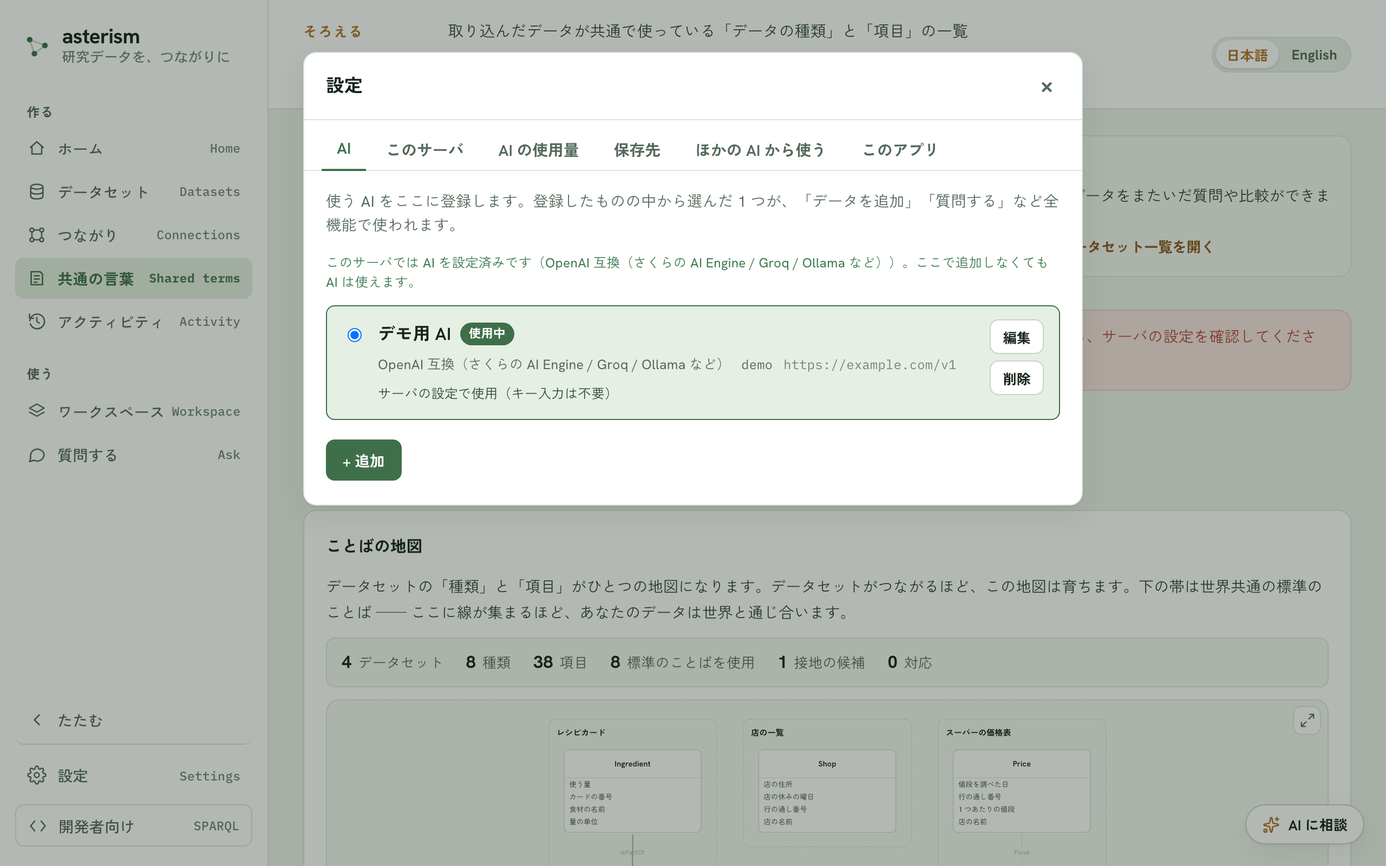
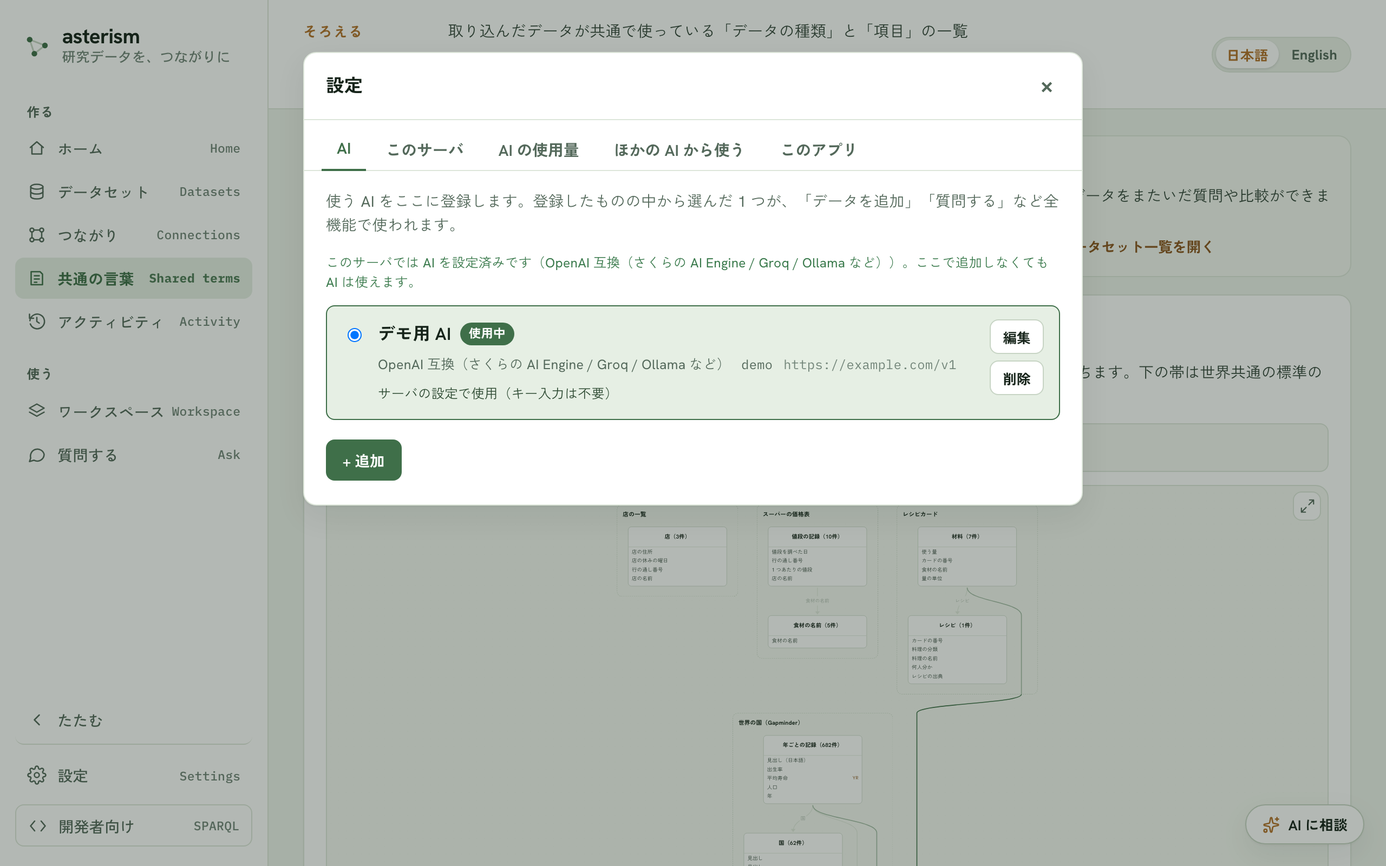
feat(ui): 設定の「保存先」と「PDF」を「このアプリ」タブにまとめる — タブは 7 → 5
利用者の指摘: 「PDF」というタブが「AI」「このサーバ」と同じ段に並ぶのは
釣り合わない。図の 3 案から「このパソコンに入っているアプリに関わるものを
『このアプリ』に集める」を選んだ。

- 「このアプリ」タブ = アプリ情報・アップデート・ローカル保存先・PDF の読み取り。
  保存先と PDF の節は、出る条件（デスクトップ版だけ）も中身も変えていない
- 置く欄の「設定を開く」は「このアプリ」タブを開き、PDF の節まで送る
- StorageTab → StorageSection、PdfRuntimeTab → PdfRuntimeSection
- manual/ja の設定の章を同じ構成に直し、タブ一覧の画像を撮り直した。
  ADR desktop-pdf-runtime.md D6・ROADMAP

diff --git a/docs/manual/ja/roadmap.html b/docs/manual/ja/roadmap.html
@@ -19,7 +19,7 @@
 <h2 id="2026-07-設計を-AI-に丸投げしない-決定論と人間の確認">2026-07 · 設計を AI に丸投げしない — 決定論と人間の確認</h2>
 <div class="tablewrap"><table><thead><tr><th>バージョン</th><th>日付</th><th>節目</th></tr></thead><tbody><tr><td><strong>v0.7.0</strong></td><td>2026-07-14</td><td>大きな節目。画面全体が新しいデザインに。使う AI を Anthropic・OpenAI・OpenAI 互換から選び、<a href="./settings.html#AI-の使用量-タブ">使った分の使用量</a>を見られるように（<a href="./settings.html#AI-タブ">使う AI の登録</a>）。装置が出力した .txt / .dat を<a href="./add-data.html#対応しているファイル形式">そのまま置ける</a>ように。変換ルールを AI が書くのをやめ、人が読める<a href="./dataset-files.html#仕様-mapping-yaml">仕様</a>から機械が組み立てる方式へ。設計の骨格を早い段階で人が確かめるゲート、<a href="./dataset-files.html#過去の版">取り込みルールの人間可読化と見直しの履歴</a>、引用 ID をブラウザで開くと公開データが返る仕組み、取り込みの中断と<a href="./datasets.html#取り込みの記録">記録</a>もこのリリースです。</td></tr><tr><td><strong>v0.8.0</strong></td><td>2026-07-22</td><td><strong><a href="./getting-started.html">かんたんモード</a></strong> の登場 — 人が答える問いを絞ったウィザードの骨組み（データを置く〜列の意味を確かめるまで。公開までつながるのは次の v0.9.0）。Excel（.xlsx）を<a href="./add-data.html#対応しているファイル形式">そのまま置ける</a>ように。列の意味と単位を確かめる<a href="./getting-started.html#3-意味をつける">意味をつける</a>画面と、検査で止まったときに AI に直してもらう導線もここから。</td></tr><tr><td><strong>v0.9.0</strong></td><td>2026-07-23</td><td>かんたんモードが<a href="./getting-started.html#6-ためす">ためす</a>・<a href="./getting-started.html#7-公開する">公開する</a>まで一続きに。公開したあとで<a href="./datasets.html#設計を見直す">設計を見直す</a>道と、検査で止まった理由を平易な文で出す翻訳。「中身」タブの構造図は、仕様から機械的に作られるようになりました。</td></tr><tr><td><strong>v0.10.0</strong></td><td>2026-07-23</td><td>装置ファイルの先頭にある <code>key=value</code> の条件行を、列として使えるように（<a href="./dataset-files.html#仕様-mapping-yaml">仕様の dialects</a>）。かたちを確かめる画面に骨格の図と<a href="./getting-started.html#5-かたちをたしかめる">「AI にもう一度考えさせる」ボタン</a>。ことばの名前のつけかたを機械が決めるようになり、人が接頭辞を考える必要が無くなりました。</td></tr><tr><td><strong>v0.11.0</strong></td><td>2026-07-24</td><td>設計の「弱さ」を欠陥と分けて、消えない場所に平易な日本語で出す<a href="./datasets.html#気になる点">気になる点</a>。つながりは AI 無しで候補を出し、<a href="./crosswalk.html#つなげそうな組み合わせをさがす">人は 1 つ選ぶだけ</a>に。同じ列を 2 か所に写していないかの検査。</td></tr></tbody></table></div>
 <h2 id="2026-08-前半-手元で動く-デスクトップ版と-質問のチャット化">2026-08 前半 · 手元で動く — デスクトップ版と、質問のチャット化</h2>
-<div class="tablewrap"><table><thead><tr><th>バージョン</th><th>日付</th><th>節目</th></tr></thead><tbody><tr><td><strong>v0.12.0</strong></td><td>2026-08-12</td><td>Docker 無しで、1 コマンドで起動するローカルモード。公開したデータセットの<a href="./dataset-files.html#検索タグ-mie-yaml">検索タグ</a>を外部のカタログ（togomcp）へ自動で載せられるように。</td></tr><tr><td><strong>v0.13.0</strong></td><td>2026-08-13</td><td><strong><a href="./desktop.html">デスクトップ版</a></strong> — macOS で、Python も Docker も無しにアプリを開くだけで使える自己完結の .app と、<a href="./desktop.html#自動更新">自動更新</a>。かたちを確かめる画面に、その設計で進むとどうなるか（件数・1 件に潰れる行・参照の危うさ）を先に見せる表示。</td></tr><tr><td><strong>v0.13.2</strong></td><td>2026-08-14</td><td>デスクトップ版が Apple の署名・公証つきに。設定画面が Graphium と同じ形になり、<a href="./settings.html#このアプリ-タブ">「このアプリ」タブ</a>でバージョンと更新を確かめられるように。再起動のたびに登録した AI が消える不具合もここで根治。</td></tr><tr><td><strong>v0.14.0</strong></td><td>2026-08-14</td><td>取り込んだ実データが設計どおりの形かを検査し、<a href="./datasets.html#気になる点">気になる点</a>に出すように。</td></tr><tr><td><strong>v0.14.4</strong></td><td>2026-08-15</td><td>数値の列を数値として記録するように。型のない数は文字として大小を比べてしまうので、最大・最小・順位が正しくなりました。</td></tr><tr><td><strong>v0.15.0</strong></td><td>2026-08-17</td><td><a href="./ask.html">質問する</a>がチャットに — 履歴の一覧・続けて聞く会話・入力欄（<a href="./ask.html#チャットの履歴">チャットの履歴</a>）。行ごとの種類が値を 1 つも持たない「空の入れ物」の検出。</td></tr><tr><td><strong>v0.16.0</strong></td><td>2026-08-17</td><td>置いたファイルがブラウザの再読み込みで消えなくなり、<a href="./add-data.html#前回の続き">前回の続き</a>から再開できるように。1 行に混ざった別々のものを<a href="./getting-started.html#5-かたちをたしかめる">別の種類に分ける</a>操作。質問の答えが、データの事実を毎回確かめ直し、文字のまま保存された数を比べているときは注意を出すように（<a href="./ask.html#数値の比べ方の注意">数値の比べ方の注意</a>）。</td></tr><tr><td><strong>v0.17.0</strong></td><td>2026-08-17</td><td>デスクトップ版の更新が、画面上部のお知らせから<a href="./desktop.html#自動更新">ワンクリック</a>に。</td></tr><tr><td><strong>v0.17.3</strong></td><td>2026-08-18</td><td>デスクトップ版は、チャットと設定をブラウザの中ではなく PC のディスクに保存するように。</td></tr><tr><td><strong>v0.17.4</strong></td><td>2026-08-20</td><td>16 の画面すべてを「かんたん」のことばに揃える一括修正。<a href="./settings.html#保存先-タブ">保存先</a>を変えるときに、今のデータを新しい場所へ移せるように。ことばを<a href="./vocab-and-grounding.html#標準のことばに合わせる-任意">標準に合わせる</a>入口がかんたんモードの公開画面にも付き、単位は標準（QUDT）の表記に照合されるように。検査で見つかった欠陥の停止は、人がクリックしなくても機械が押すように。</td></tr><tr><td><strong>v0.17.5</strong></td><td>2026-08-21</td><td><a href="./vocab-and-grounding.html#この列は何を測っているか">この列は何を測っているか</a>を標準に合わせられるように — 単位が手がかりになるので、項目名が略記でも見つかります。データセットの詳細画面のタブを「答える問い」で切り直し（<a href="./datasets.html#詳細画面のタブ">詳細画面のタブ</a>）。</td></tr></tbody></table></div>
+<div class="tablewrap"><table><thead><tr><th>バージョン</th><th>日付</th><th>節目</th></tr></thead><tbody><tr><td><strong>v0.12.0</strong></td><td>2026-08-12</td><td>Docker 無しで、1 コマンドで起動するローカルモード。公開したデータセットの<a href="./dataset-files.html#検索タグ-mie-yaml">検索タグ</a>を外部のカタログ（togomcp）へ自動で載せられるように。</td></tr><tr><td><strong>v0.13.0</strong></td><td>2026-08-13</td><td><strong><a href="./desktop.html">デスクトップ版</a></strong> — macOS で、Python も Docker も無しにアプリを開くだけで使える自己完結の .app と、<a href="./desktop.html#自動更新">自動更新</a>。かたちを確かめる画面に、その設計で進むとどうなるか（件数・1 件に潰れる行・参照の危うさ）を先に見せる表示。</td></tr><tr><td><strong>v0.13.2</strong></td><td>2026-08-14</td><td>デスクトップ版が Apple の署名・公証つきに。設定画面が Graphium と同じ形になり、<a href="./settings.html#このアプリ-タブ">「このアプリ」タブ</a>でバージョンと更新を確かめられるように。再起動のたびに登録した AI が消える不具合もここで根治。</td></tr><tr><td><strong>v0.14.0</strong></td><td>2026-08-14</td><td>取り込んだ実データが設計どおりの形かを検査し、<a href="./datasets.html#気になる点">気になる点</a>に出すように。</td></tr><tr><td><strong>v0.14.4</strong></td><td>2026-08-15</td><td>数値の列を数値として記録するように。型のない数は文字として大小を比べてしまうので、最大・最小・順位が正しくなりました。</td></tr><tr><td><strong>v0.15.0</strong></td><td>2026-08-17</td><td><a href="./ask.html">質問する</a>がチャットに — 履歴の一覧・続けて聞く会話・入力欄（<a href="./ask.html#チャットの履歴">チャットの履歴</a>）。行ごとの種類が値を 1 つも持たない「空の入れ物」の検出。</td></tr><tr><td><strong>v0.16.0</strong></td><td>2026-08-17</td><td>置いたファイルがブラウザの再読み込みで消えなくなり、<a href="./add-data.html#前回の続き">前回の続き</a>から再開できるように。1 行に混ざった別々のものを<a href="./getting-started.html#5-かたちをたしかめる">別の種類に分ける</a>操作。質問の答えが、データの事実を毎回確かめ直し、文字のまま保存された数を比べているときは注意を出すように（<a href="./ask.html#数値の比べ方の注意">数値の比べ方の注意</a>）。</td></tr><tr><td><strong>v0.17.0</strong></td><td>2026-08-17</td><td>デスクトップ版の更新が、画面上部のお知らせから<a href="./desktop.html#自動更新">ワンクリック</a>に。</td></tr><tr><td><strong>v0.17.3</strong></td><td>2026-08-18</td><td>デスクトップ版は、チャットと設定をブラウザの中ではなく PC のディスクに保存するように。</td></tr><tr><td><strong>v0.17.4</strong></td><td>2026-08-20</td><td>16 の画面すべてを「かんたん」のことばに揃える一括修正。<a href="./settings.html#保存先">保存先</a>を変えるときに、今のデータを新しい場所へ移せるように。ことばを<a href="./vocab-and-grounding.html#標準のことばに合わせる-任意">標準に合わせる</a>入口がかんたんモードの公開画面にも付き、単位は標準（QUDT）の表記に照合されるように。検査で見つかった欠陥の停止は、人がクリックしなくても機械が押すように。</td></tr><tr><td><strong>v0.17.5</strong></td><td>2026-08-21</td><td><a href="./vocab-and-grounding.html#この列は何を測っているか">この列は何を測っているか</a>を標準に合わせられるように — 単位が手がかりになるので、項目名が略記でも見つかります。データセットの詳細画面のタブを「答える問い」で切り直し（<a href="./datasets.html#詳細画面のタブ">詳細画面のタブ</a>）。</td></tr></tbody></table></div>
 <h2 id="2026-08-後半-意味を先に-ID-を後に-かんたんモードの作り直し">2026-08 後半 · 意味を先に、ID を後に — かんたんモードの作り直し</h2>
 <div class="tablewrap"><table><thead><tr><th>バージョン</th><th>日付</th><th>節目</th></tr></thead><tbody><tr><td><strong>v0.18.0</strong></td><td>2026-08-25</td><td>「項目の意味」は AI に再試行させるものではなく、人が決めるものに。危険な ID（測定した値をそのまま ID にしていて、1 件に潰れうるもの）は、人に見せる前に機械が置き換えるように。</td></tr><tr><td><strong>v0.19.0</strong></td><td>2026-08-25</td><td><a href="./getting-started.html#3-意味をつける">意味をつける</a>画面で、まだ取り込んでいない項目をまとめて操作できるように。</td></tr><tr><td><strong>v0.20.0</strong></td><td>2026-08-25</td><td><strong><a href="./consult.html">相談チャット</a></strong> — 設計中の疑問を、画面を離れずに右側のチャットで聞けるように。</td></tr><tr><td><strong>v0.21.0</strong></td><td>2026-08-25</td><td>相談チャットに、<a href="./consult.html#いま見ている画面のことは-伝えなくても伝わる">いま画面に見えている列が自動で伝わる</a>ように。AI が出した意味・単位の候補は、空欄にだけ<a href="./consult.html#AI-の候補を表に反映する">表に反映</a>できます。</td></tr><tr><td><strong>v0.22.0</strong></td><td>2026-08-26</td><td>ユーザーマニュアルを 9 章に拡充し、実画面の写真を入れました。設定の「このアプリ」からも更新を入れられるように（<a href="./desktop.html#手動で確認">手動で確認</a>）。</td></tr><tr><td><strong>v0.22.2</strong></td><td>2026-08-27</td><td>公開したあとで「データの数えかた」（ID のつけかた）を直せるように — 前の ID は引っ越し先を指すので、すでに配った引用から新しい内容にたどれます（引き継げない ID があるときは、公開の前に知らせます。<a href="./datasets.html#設計を見直す">設計を見直す</a>）。右下のボタンが「AI に相談」に。デスクトップ版で裏方が止まったら気づかせて、その場で再起動できるように。ほかの AI が「どのデータセットがあるか」を聞ける道具（find_datasets）。</td></tr><tr><td><strong>v0.23.0</strong></td><td>2026-08-28</td><td><strong><a href="./settings.html#ほかの-AI-から使う-タブ">ほかの AI から使う</a></strong> — Asterism 本体が MCP の接続先を出し、Claude Code・Claude Desktop・Cursor などに貼り付ける内容を設定から配れるように。</td></tr><tr><td><strong>v0.23.1</strong></td><td>2026-08-28</td><td><strong>意味を先に、ID を後に</strong> — かんたんモードの順序を入れ替え、<a href="./getting-started.html#3-意味をつける">意味をつける</a>を先にしました。重複する列は「どちらに残しますか」とその場で人に聞き、「AI にもう一度考えさせる」は作り直しではなく修理になって、画面で直した内容が消えなくなりました。文の強弱（判断・操作・補足・警告）を整理。マニュアルを <a href="./index.html">GitHub Pages で公開</a>し、<a href="./rdf-basics.html">つながったデータの基礎</a>と<a href="./dataset-files.html">データセットの中のファイル</a>の 2 章を追加。</td></tr><tr><td><strong>v0.25.0</strong></td><td>2026-08-29</td><td>かたちを確かめる画面に「できあがった形」を表示。AI の名づけを標準の綴りに寄せるように。マニュアルに実画面のスクリーンショット。</td></tr><tr><td><strong>v0.26.0</strong></td><td>2026-08-29</td><td>形の図が、<a href="./getting-started.html#5-かたちをたしかめる">動かして眺められる図</a>に。図はすべて同じ描き方に揃えました。</td></tr></tbody></table></div>
 <h2 id="2026-08-末-09-骨格は簡単な判断から-と図-育つ地図">2026-08 末〜09 · 骨格は簡単な判断から — ☑ と図、育つ地図</h2>

diff --git a/docs/manual/ja/settings.html b/docs/manual/ja/settings.html
@@ -24,18 +24,18 @@
 <h2 id="AI-の使用量-タブ">「AI の使用量」タブ <span class="badge">v0.7.0 (2026-07-14) で追加</span></h2>
 <p>各 AI 呼び出しで使ったトークン数の集計と、概算コストを確認できます。日・月・年の粒度で切り替えられ、機能（質問する・設計の提案など）× モデルの内訳も見られます。トークン単価を設定していないモデルの使用分は、概算コストには含まれません。</p>
 <figure><a href="../screenshots/settings-usage.png" title="原寸で開く"><img src="../screenshots/settings-usage.png" alt="AI の使用量タブ"></a></figure>
-<h2 id="保存先-タブ">「保存先」タブ <span class="badge">v0.17.4 (2026-08-20) で追加</span></h2>
-<p>データセット・グラフ・チャット・設定を保存するフォルダを確認・変更できます（変更はデスクトップアプリのみ）。「変更…」ボタンから別の場所を選べます。選んだ場所が同期フォルダ（Dropbox など）だと、複数端末から同時に開いたときに壊れることがあるため推奨されません。確認の画面で「今のデータを新しい場所へ移す」にチェックを付けると、次の起動時にデータが移り、結果が画面に表示されます（移行先のフォルダが空のときだけ移します）。チェックを付けない場合、既存のデータは自動では移動されないので、引き継ぎたいときはアプリを終了してから旧フォルダの中身を新しいフォルダへ手動でコピーします。別の場所を選んだあとは、「既定の場所に戻す」ボタンでいつでも元の保存先に戻せます。</p>
 <h2 id="ほかの-AI-から使う-タブ">「ほかの AI から使う」タブ <span class="badge">v0.23.0 (2026-08-28) で追加</span></h2>
 <p>Asterism に取り込んだデータを、Claude Code・Claude Desktop・Cursor・VS Codeなどの AI から直接聞けるようにするタブです。データをコピーして渡すのではなく、AI に<strong>接続先</strong>（<code>http://127.0.0.1:8765/mcp</code> のようなアドレス）を教えるだけで、その AI が Asterism に問い合わせて答えます。</p>
 <p>使っている AI を選ぶと、その AI に必要な手順と、貼り付ける内容が出ます。「コピー」ボタンで写して、AI 側に貼り付けてください。接続先は起動のたびにこの画面で確認します（別のプログラムが同じ番号を使っていると、Asterism は別の番号で起動するため）。</p>
 <p>Asterism を起動している間だけ使えます。アプリを終了すると、AI からは繋がらなくなります。</p>
-<h2 id="PDF-タブ">「PDF」タブ</h2>
-<p>デスクトップ版だけにあるタブです。PDF を取り込むには、PDF を読み取る部品（約 1.7GB）をこのパソコンに入れます。入れるのは 1 回だけです。</p>
-<ul><li>「部品を入れる」ボタンを押すと、ダウンロードが始まります。インターネットへの接続が要り、数分かかります。進み具合はこのタブに出て、設定の画面を閉じても続きます。途中でやめるときは「中止」ボタンを押します</li><li>入れ終わると「PDF を取り込めます」と出て、ファイルを置く欄が PDF を受け付けるようになります（画面を読み込み直す必要はありません）</li><li>PDF の読み取りはこのパソコンの中で行い、読み取りのために PDF を外へ送ることはありません。部品がインターネットを使うのは、入れるときだけです</li><li>要らなくなったら「部品を消す」ボタンで消せます（取り込み済みのデータは残ります）</li></ul>
-<p>うまく入らなかったときや、入れた部品が動かなくなったときは、理由と「もう一度試す」ボタンが出ます。それでも動かないときは、同じ場所の「部品を消す」ボタンで消してから入れ直せます。</p>
 <h2 id="このアプリ-タブ">「このアプリ」タブ <span class="badge">v0.13.2 (2026-08-14) で追加</span></h2>
-<p>インストールされているバージョンの確認と、更新の確認ができます。詳しくは<a href="./desktop.html">desktop.md</a> を参照してください。</p>
+<p>このパソコンに入っているアプリそのものについての設定を、1 つにまとめたタブです。インストールされているバージョンの確認と、更新の確認ができます（詳しくは <a href="./desktop.html">desktop.md</a>）。デスクトップ版では、同じタブの下に「ローカル保存先」と「PDF の読み取り」も並びます。</p>
+<h3 id="保存先">保存先 <span class="badge">v0.17.4 (2026-08-20) で追加</span></h3>
+<p>データセット・グラフ・チャット・設定を保存するフォルダを確認・変更できます（変更はデスクトップアプリのみ）。「変更…」ボタンから別の場所を選べます。選んだ場所が同期フォルダ（Dropbox など）だと、複数端末から同時に開いたときに壊れることがあるため推奨されません。確認の画面で「今のデータを新しい場所へ移す」にチェックを付けると、次の起動時にデータが移り、結果が画面に表示されます（移行先のフォルダが空のときだけ移します）。チェックを付けない場合、既存のデータは自動では移動されないので、引き継ぎたいときはアプリを終了してから旧フォルダの中身を新しいフォルダへ手動でコピーします。別の場所を選んだあとは、「既定の場所に戻す」ボタンでいつでも元の保存先に戻せます。</p>
+<h3 id="PDF-の読み取り">PDF の読み取り</h3>
+<p>デスクトップ版だけにあります。PDF を取り込むには、PDF を読み取る部品（約 1.7GB）をこのパソコンに入れます。入れるのは 1 回だけです。</p>
+<ul><li>「部品を入れる」ボタンを押すと、ダウンロードが始まります。インターネットへの接続が要り、数分かかります。進み具合はこの欄に出て、設定の画面を閉じても続きます。途中でやめるときは「中止」ボタンを押します</li><li>入れ終わると「PDF を取り込めます」と出て、ファイルを置く欄が PDF を受け付けるようになります（画面を読み込み直す必要はありません）</li><li>PDF の読み取りはこのパソコンの中で行い、読み取りのために PDF を外へ送ることはありません。部品がインターネットを使うのは、入れるときだけです</li><li>要らなくなったら「部品を消す」ボタンで消せます（取り込み済みのデータは残ります）</li></ul>
+<p>うまく入らなかったときや、入れた部品が動かなくなったときは、理由と「もう一度試す」ボタンが出ます。それでも動かないときは、同じ場所の「部品を消す」ボタンで消してから入れ直せます。</p>
 <h2 id="関連">関連</h2>
 <p>設計について AI に相談したいときは <a href="./consult.html">consult.md</a>、公開したデータへの質問は <a href="./ask.html">ask.md</a> を参照してください。</p>
 <footer>この文書は <a href="https://github.com/kumagallium/asterism">kumagallium/asterism</a>

diff --git a/ui/src/settings/SettingsModal.tsx b/ui/src/settings/SettingsModal.tsx
@@ -5,9 +5,6 @@ import { getAppDataInfo } from '../appdata'
 import { AboutTab } from './AboutTab'
 import { ConnectTab } from './ConnectTab'
 import { InstanceSection } from './InstanceSection'
-import { PdfRuntimeTab } from './PdfRuntimeTab'
-import { usePdfRuntime } from '../pdfRuntime'
-import { StorageTab } from './StorageTab'
 import { WriteTokenSection } from './WriteTokenSection'
 import { type SettingsSection, useLlmSettings } from './context'
 import { UsageTab } from './UsageTab'
@@ -36,8 +33,8 @@ import {
 // from, the shared AI setup), usage, where things are saved, and the app itself.
 // Most of those used to live under "Models", so guidance like "enter it in
 // settings" landed on a page whose tab names said nothing about the field being
-// described. 'storage' only exists on a single-user server (see below).
-type Tab = 'ai' | 'server' | 'usage' | 'storage' | 'connect' | 'pdf' | 'about'
+// described. 保存先・PDF の読み取りは「このアプリ」タブの中の節（条件つき）。
+type Tab = 'ai' | 'server' | 'usage' | 'connect' | 'about'
 
 /** DOM id of the block a section name scrolls to. */
 const SECTION_ANCHOR: Record<SettingsSection, string> = {
@@ -53,7 +50,7 @@ const SECTION_TAB: Record<SettingsSection, Tab> = {
   'server-token': 'server',
   'server-instance': 'server',
   usage: 'usage',
-  pdf: 'pdf',
+  pdf: 'about',
 }
 
 export function SettingsModal({
@@ -70,10 +67,7 @@ export function SettingsModal({
   const [tab, setTab] = useState<Tab>('ai')
 
   // 共有ブラウザ版（複数ユーザーが同じ api を見ている）ではストレージタブ自体を出さない。
-  const showStorageTab = getAppDataInfo()?.singleUser === true
   const showConnectTab = getAppDataInfo()?.mcpUrl != null
-  // PDF の読み取り部品は、入れ外しできる環境（デスクトップ版）でだけ出す。
-  const { manageable: showPdfTab } = usePdfRuntime()
 
   // Land on the section the user was sent to. Chosen during render (rather than
   // after paint) so the modal never flashes the wrong tab, and remembered so a
@@ -162,11 +156,8 @@ export function SettingsModal({
               'ai',
               'server',
               'usage',
-              // 共有ブラウザ版では保存先を出さない（サーバの申告で決める）。
-              ...(showStorageTab ? (['storage'] as const) : []),
               // 接続先はこの機が MCP を出しているときだけ（--no-mcp・共有 api では出ない）。
               ...(showConnectTab ? (['connect'] as const) : []),
-              ...(showPdfTab ? (['pdf'] as const) : []),
               'about',
             ] as Tab[]
           ).map((id) => (
@@ -188,9 +179,7 @@ export function SettingsModal({
               <UsageTab />
             </div>
           )}
-          {tab === 'storage' && showStorageTab && <StorageTab />}
           {tab === 'connect' && showConnectTab && <ConnectTab />}
-          {tab === 'pdf' && showPdfTab && <PdfRuntimeTab />}
           {tab === 'about' && <AboutTab />}
         </div>
       </div>

diff --git a/docs/manual/ja/add-data.html b/docs/manual/ja/add-data.html
@@ -39,7 +39,7 @@
 <ul><li><strong>ととのえて進む</strong> — 選んだ内容で表を作ってから、次の画面（AI が読み取る意味づけ）に進みます。</li><li><strong>このまま進む</strong> — 表の形はととのえず、元の表のまま次に進みます。あとからやり直したいときは、「入れる」からもう一度やり直してください。</li></ul>
 <h2 id="Word-PDF-などの文書">Word / PDF などの文書 <span class="badge">v0.6.0 (2026-06-16) で追加</span></h2>
 <p>論文の XML（JATS）・Word・PDF の文書は、AI を使わずそのまま取り込めます。文書名を付けて取り込み、読み取りが終わったら公開すると、文ごとに検索・引用できるようになります。PDF はレイアウトも読むため、数分かかることがあります。文字が画像になっているスキャン画像の PDF は読み取れません。</p>
-<p>デスクトップ版では、論文の XML（JATS）と Word はそのまま取り込めます（Word を読み取る部品はアプリに同梱しています）。PDF は、PDF を読み取る部品（約 1.7GB）を1 回入れると取り込めるようになります。入れ方は<a href="./settings.html#PDF-タブ">settings.md</a> を参照してください。PDF の読み取りはパソコンの中で行い、読み取りのために PDF を外へ送ることはありません。</p>
+<p>デスクトップ版では、論文の XML（JATS）と Word はそのまま取り込めます（Word を読み取る部品はアプリに同梱しています）。PDF は、PDF を読み取る部品（約 1.7GB）を1 回入れると取り込めるようになります。入れ方は<a href="./settings.html#PDF-の読み取り">settings.md</a> を参照してください。PDF の読み取りはパソコンの中で行い、読み取りのために PDF を外へ送ることはありません。</p>
 <p>画面は、いま取り込める形式だけを案内します。取り込めない形式があるときは、次のようになります。</p>
 <ul><li>ファイルを置く欄の下に「PDF は、読み取る部品を入れると取り込めます。」と出て、「設定を開く」ボタンから部品を入れる画面に進めます</li><li>ファイルを選ぶ画面では、その形式のファイルは選ぶ対象から外れます</li><li>それでも選んだり、ドラッグして置いたりしたときは、取り込みを始める前にその場で知らせます</li></ul>
 <p>サーバ版では、PDF を読み取る部品が設定されていないサーバのとき、PDF だけが取り込めません（「PDF は、このサーバでは取り込めません」と出ます）。古い版のデスクトップ版では、Word・PDF とも取り込めないことがあります。アプリを更新してください。</p>

diff --git a/docs/manual/ja/desktop.html b/docs/manual/ja/desktop.html
@@ -22,9 +22,9 @@
 <p>左下の「設定」を開き「このアプリ」タブの「今すぐ確認」ボタンで、いつでも手動で確認できます。最新の状態であれば「お使いの Asterism は最新です。」と表示されます。新しいバージョンが見つかったときは、画面上部のお知らせを待たなくても、同じタブの中に「新しいバージョン ○.○.○ があります」と表示されます。「再起動して更新」ボタンを押し、確認に答えると、その場で更新できます。</p>
 <h2 id="ブラウザ版との違い">ブラウザ版との違い</h2>
 <p>更新確認はデスクトップアプリのみの機能です。ブラウザ版はサーバが配信している内容がそのまま最新なので、更新確認そのものが必要ありません。</p>
-<p>文書の取り込みは、デスクトップ版では論文の XML（JATS）と Word がそのまま使えます。PDF は、PDF を読み取る部品（約 1.7GB）を 1 回入れると使えるようになります。設定の「PDF」タブから入れます（<a href="./settings.html#PDF-タブ">settings.md</a>）。PDF の読み取りはパソコンの中で行い、読み取りのために PDF を外へ送ることはありません。</p>
+<p>文書の取り込みは、デスクトップ版では論文の XML（JATS）と Word がそのまま使えます。PDF は、PDF を読み取る部品（約 1.7GB）を 1 回入れると使えるようになります。設定の「このアプリ」タブにある「PDF の読み取り」から入れます（<a href="./settings.html#PDF-の読み取り">settings.md</a>）。PDF の読み取りはパソコンの中で行い、読み取りのために PDF を外へ送ることはありません。</p>
 <h2 id="保存先の変更">保存先の変更 <span class="badge">v0.17.4 (2026-08-20) で追加</span></h2>
-<p>データセット・グラフ・チャット・設定の保存先は、設定の「保存先」タブから変更できます（デスクトップ版のみ）。詳しくは <a href="./settings.html">settings.md</a>を参照してください。</p>
+<p>データセット・グラフ・チャット・設定の保存先は、設定の「このアプリ」タブにある「ローカル保存先」から変更できます（デスクトップ版のみ）。詳しくは<a href="./settings.html#保存先">settings.md</a> を参照してください。</p>
 <h2 id="関連">関連</h2>
 <p>設定全般については <a href="./settings.html">settings.md</a> を参照してください。</p>
 <footer>この文書は <a href="https://github.com/kumagallium/asterism">kumagallium/asterism</a>

diff --git a/docs/manual/ja/screens.html b/docs/manual/ja/screens.html
@@ -34,7 +34,7 @@
 <h2 id="このサーバへの書き込みに必要な利用許可コードを設定する">このサーバへの書き込みに必要な利用許可コードを設定する</h2>
 <p>左下の「設定」を開き「このサーバ」タブの「利用許可コード」欄に、このサーバの利用許可コードを貼り付けます。データの取り込み・公開などの書き込み操作に必要です。</p>
 <h2 id="AI-の使用量-保存先-アプリの更新を確認する">AI の使用量・保存先・アプリの更新を確認する</h2>
-<p>左下の「設定」の「AI の使用量」タブで使ったトークンと概算コストを、「保存先」タブでデータの保存フォルダ（デスクトップ版のみ変更可）を、「このアプリ」タブでバージョンと更新の確認（「今すぐ確認」ボタン）ができます。自動更新の詳細は <a href="./desktop.html">desktop.md</a>。</p>
+<p>左下の「設定」の「AI の使用量」タブで使ったトークンと概算コストを、「このアプリ」タブでバージョンと更新の確認（「今すぐ確認」ボタン）ができます。デスクトップ版では、同じ「このアプリ」タブでデータの保存フォルダの変更と、PDF を読み取る部品の出し入れもできます。自動更新の詳細は <a href="./desktop.html">desktop.md</a>。</p>
 <h2 id="公開済みデータに質問する">公開済みデータに質問する</h2>
 <p>メニューの「質問する」から、公開済みのデータに自然な言葉で質問できます。答えに付く出どころのたどり方は <a href="./ask.html">ask.md</a>。この設計相談チャットとは別物で、データを公開したあとに使えます。</p>
 <h2 id="公開済みデータセットの一覧を見る">公開済みデータセットの一覧を見る</h2>

diff --git a/ui/src/settings/PdfRuntimeSection.tsx b/ui/src/settings/PdfRuntimeSection.tsx
@@ -2,11 +2,11 @@ import { useState } from 'react'
 import { useTranslation } from 'react-i18next'
 import { progressPercent, sizeGb, usePdfRuntime } from '../pdfRuntime'
 
-// 「PDF」タブ — デスクトップ版で、PDF を読み取る部品をあとから入れる／消す。
+// 「このアプリ」タブの「PDF の読み取り」の節 — デスクトップ版で、PDF を読み取る部品をあとから入れる／消す。
 // 状態は pdfRuntime.ts の共有ストアから来る（入れている最中は 1.5 秒おきに更新）。
 // 画面を閉じても入れる処理は続く（バックエンド側で動いている）。
 
-export function PdfRuntimeTab() {
+export function PdfRuntimeSection() {
   const { t } = useTranslation('settings')
   const { status, install, remove } = usePdfRuntime()
   const [busy, setBusy] = useState(false)
@@ -32,8 +32,7 @@ export function PdfRuntimeTab() {
   const pct = progressPercent(status)
 
   return (
-    <div className="pdf-tab" id="settings-pdf">
-      <section className="serverkeys storage-section">
+    <section className="serverkeys" id="settings-pdf">
         <h4 className="serverkeys-title">{t('pdf.title')}</h4>
 
         {status.state === 'absent' && (
@@ -150,7 +149,6 @@ export function PdfRuntimeTab() {
             {t('pdf.requestFailed')}
           </p>
         )}
-      </section>
-    </div>
+    </section>
   )
 }

diff --git a/ui/src/settings/AboutTab.tsx b/ui/src/settings/AboutTab.tsx
@@ -9,6 +9,10 @@ import {
   type UpdateAvailableDetail,
 } from '../desktop/updater'
 import { useUpdateInstall } from '../desktop/useUpdateInstall'
+import { getAppDataInfo } from '../appdata'
+import { usePdfRuntime } from '../pdfRuntime'
+import { PdfRuntimeSection } from './PdfRuntimeSection'
+import { StorageSection } from './StorageSection'
 import { type InstanceInfo, fetchInstanceInfo } from './instanceApi'
 
 // 他のクライアントと同じ API ベース（既定は同一オリジン /api・別ホスト配備は VITE_API_URL）
@@ -84,6 +88,9 @@ export function AboutTab() {
   }, [clearError])
 
   const tauri = isTauri()
+  // 保存先は共有ブラウザ版では出さない／PDF の部品は入れ外しできる環境でだけ出す
+  const showStorage = getAppDataInfo()?.singleUser === true
+  const { manageable: showPdf } = usePdfRuntime()
 
   async function onCheck() {
     setCheck({ status: 'checking' })
@@ -204,6 +211,8 @@ export function AboutTab() {
           </>
         )}
       </section>
+      {showStorage && <StorageSection />}
+      {showPdf && <PdfRuntimeSection />}
     </div>
   )
 }

diff --git a/ui/src/documentFormats.test.ts b/ui/src/documentFormats.test.ts
@@ -302,8 +302,8 @@ describe('PDF 部品まわりの文言', () => {
     ])
   })
   it('置いたときの文', () => {
-    expect(unavailableDropMessage(t, dNoPdf, 'pdf', rt('absent'))).toMatch(/設定の「PDF」タブ/)
-    expect(unavailableDropMessage(t, dNoPdf, 'pdf', rt('failed'))).toMatch(/設定の「PDF」タブ/)
+    expect(unavailableDropMessage(t, dNoPdf, 'pdf', rt('absent'))).toMatch(/設定の「このアプリ」/)
+    expect(unavailableDropMessage(t, dNoPdf, 'pdf', rt('failed'))).toMatch(/設定の「このアプリ」/)
     expect(unavailableDropMessage(t, dNoPdf, 'pdf', rt('installing'))).toMatch(/入れている最中/)
     expect(unavailableDropMessage(t, dNoPdf, 'pdf', rt('starting'))).toMatch(/入れている最中/)
     // Word を置いたとき・管理できないときは今のまま
@@ -331,7 +331,6 @@ describe('PDF 部品まわりの文言', () => {
       t('settings:pdf.retry'),
       t('settings:pdf.logPath', { path: '/tmp/x.log' }),
       t('settings:pdf.requestFailed'),
-      t('settings:tabs.pdf'),
     ]
     for (const text of texts) {
       expect(text).not.toContain('{{')

diff --git a/ui/src/settings/StorageSection.tsx b/ui/src/settings/StorageSection.tsx
@@ -44,7 +44,7 @@ interface StorageNotice {
   detail: string
 }
 
-export function StorageTab() {
+export function StorageSection() {
   const { t } = useTranslation('settings')
   const appData = getAppDataInfo()
   const tauri = isTauri()
@@ -157,8 +157,8 @@ export function StorageTab() {
     notice?.kind === 'failed' ? 'field-error' : notice?.kind === 'copied' ? 'field-warn' : 'field-ok'
 
   return (
-    <div className="storage-tab">
-      <section className="serverkeys storage-section">
+    <>
+      <section className="serverkeys">
         <h4 className="serverkeys-title">{t('storage.title')}</h4>
         <p className="field-help">{t('storage.intro')}</p>
 
@@ -246,6 +246,6 @@ export function StorageTab() {
           </button>
         )}
       </section>
-    </div>
+    </>
   )
 }

diff --git a/docs/ROADMAP.md b/docs/ROADMAP.md
@@ -76,7 +76,7 @@
 
 ## 更新 log
 
-- 2026-10-05: **デスクトップ版でも PDF を取り込める — 読み取る部品（Docling）をあとから入れる（branch `feat/desktop-pdf-runtime`・新 ADR `desktop-pdf-runtime.md`）**。利用者が 3 案（あとから入れる／軽い読み取りを同梱／読み取りサーバを使う）と入口の置き方（設定に置き、置く欄から案内）を図から選んだ。**仕組み**: 設定の「PDF」タブのボタンで、アプリが同梱の python で venv を作り、版とハッシュを固定した依存（105 個・`pip --require-hashes --only-binary :all:`）とコミットを固定したモデル 2 つを取得（約 1.7GB）→ 既存の Docling サイドカー（`infra/docling-sidecar/app.py`・無改修）を子プロセスで起こす → `/api/instance` の `can_convert_pdf` が true になり、画面は読み込み直さずに PDF を受け付ける。変換は `HF_HUB_OFFLINE=1` で動き、読み取りのために PDF を外へ送らない。①api: 新パッケージ `asterism_api/pdf_runtime/`（管理クラス・`GET/POST/DELETE /api/pdf-runtime`＝ローカルモードだけに生える・依存一覧・`models.json`・同梱 wheel）と `local.py` の配線。②desktop: サイドカーの `app.py` を同梱し `ASTERISM_DOCLING_SIDECAR_DIR` を渡す。スモークテストで `state: absent` を確かめる。**`bundle-backend.sh` はローカルの 4 パッケージを必ず入れ直す**（`--reinstall-package`。版が同じだと uv が古い写しを残し、組み直した同梱物が古いコードで動いた — 今回これで確認が 1 回空振りした）。③ui: `pdfRuntime.ts`（共有の状態・入れている間だけ 1.5 秒おきに取り直す）・設定の「PDF」タブ・置く欄の案内（「PDF は、読み取る部品を入れると取り込めます。」＋「設定を開く」）。ja/en。④manual（`settings`・`add-data`・`desktop`・`screens`・`datasets`）。**設計どおりにいかなかった点と対処**: (a) `antlr4-python3-runtime` 4.9.3 は PyPI に wheel が無い → ハッシュを確かめた sdist から作った wheel（145KB・中の Python ファイルが sdist と同一）を同梱し `--find-links` で渡す。(b) docling はレイアウトのモデルを `main` で取りに行く＝入れた時期で別物になり得る → コミットで固定（サーバ版のイメージは未固定＝残）。(c) checker の指摘で直したもの＝消す対象の確認（目印つきの自分のフォルダだけを使い・消す）／失敗から抜けられない行き止まり（失敗の画面に「部品を消す」）／子プロセスの環境を許可リストに（書き込みトークンや AI のキーを渡さない）／`POST`・`DELETE` に Origin の確認／サイドカーが落ちたらその場で気づく見張り／入れる・消すの直列化。(d) 実物で見つけたもの＝アプリの更新で同梱の CPython の場所が変わる（3.11.11→3.11.17 のようにパスに版が入る）と venv のリンクが切れ、`venv --upgrade` は切れたリンクが残っていると失敗する → 先に外す。**実機確認**（組み立てた同梱バックエンドを、アプリのシェルと同じ env・Finder 相当の PATH で起動＋ヘッドレス Chrome）: 置く欄の案内 → 設定を開く → 部品を入れる（96 秒）→ **読み込み直さずに**置く欄が PDF を受け付ける → PDF を置いて取り込み→公開。サイドカーを kill → その場で `can_convert_pdf` が false・失敗の画面 →「もう一度試す」で復帰。入れた部品の venv のリンクを切って再起動（アプリの更新を真似る）→ 自動で付け直して使える状態に戻る。入っているのに起動できない状態からも「部品を消す」で抜けられる。「部品を消す」→ フォルダが消え、読み込み直さずに案内が戻る。別の物が入ったフォルダを置き場所に指しても 1 バイトも変わらない（checksum 一致）。よそのオリジンの `POST` は 403。サイドカーの環境に書き込みトークンが無く `HF_HUB_OFFLINE=1` がある。**未確認**: `.app` を組み上げての起動・リリースの署名と公証・遅い回線や途中で切れたときの挙動（失敗後のやり直しは最初から取得し直す）。**残**（ADR §6）: サーバ版のサイドカーを同じ依存一覧・同じモデルのコミットに固定／使っていないあいだモデルを手放す／部品が古くなったときの案内／macOS arm64 以外／Graphium との連携／**ローカルモードの既存の書き込み経路にも同一オリジンの確認が無い**（別タスクとして切り出した）。
+- 2026-10-05: **デスクトップ版でも PDF を取り込める — 読み取る部品（Docling）をあとから入れる（branch `feat/desktop-pdf-runtime`・新 ADR `desktop-pdf-runtime.md`）**。利用者が 3 案（あとから入れる／軽い読み取りを同梱／読み取りサーバを使う）と入口の置き方（設定に置き、置く欄から案内）を図から選んだ。**仕組み**: 設定の「このアプリ」タブにある「PDF の読み取り」のボタンで、アプリが同梱の python で venv を作り、版とハッシュを固定した依存（105 個・`pip --require-hashes --only-binary :all:`）とコミットを固定したモデル 2 つを取得（約 1.7GB）→ 既存の Docling サイドカー（`infra/docling-sidecar/app.py`・無改修）を子プロセスで起こす → `/api/instance` の `can_convert_pdf` が true になり、画面は読み込み直さずに PDF を受け付ける。変換は `HF_HUB_OFFLINE=1` で動き、読み取りのために PDF を外へ送らない。①api: 新パッケージ `asterism_api/pdf_runtime/`（管理クラス・`GET/POST/DELETE /api/pdf-runtime`＝ローカルモードだけに生える・依存一覧・`models.json`・同梱 wheel）と `local.py` の配線。②desktop: サイドカーの `app.py` を同梱し `ASTERISM_DOCLING_SIDECAR_DIR` を渡す。スモークテストで `state: absent` を確かめる。**`bundle-backend.sh` はローカルの 4 パッケージを必ず入れ直す**（`--reinstall-package`。版が同じだと uv が古い写しを残し、組み直した同梱物が古いコードで動いた — 今回これで確認が 1 回空振りした）。③ui: `pdfRuntime.ts`（共有の状態・入れている間だけ 1.5 秒おきに取り直す）・設定の「PDF の読み取り」の節・置く欄の案内（「PDF は、読み取る部品を入れると取り込めます。」＋「設定を開く」）。ja/en。**設定のタブを整理**＝はじめ「PDF」を独立したタブにしたが、利用者「ほかと並んで上位になっているのが気になる」→ 図の 3 案から「このアプリに集める」を選択。「保存先」タブも無くし、アプリ情報・アップデート・保存先・PDF の読み取りを「このアプリ」タブの節にした（タブ 7 → 5）。④manual（`settings`・`add-data`・`desktop`・`screens`・`datasets`）。**設計どおりにいかなかった点と対処**: (a) `antlr4-python3-runtime` 4.9.3 は PyPI に wheel が無い → ハッシュを確かめた sdist から作った wheel（145KB・中の Python ファイルが sdist と同一）を同梱し `--find-links` で渡す。(b) docling はレイアウトのモデルを `main` で取りに行く＝入れた時期で別物になり得る → コミットで固定（サーバ版のイメージは未固定＝残）。(c) checker の指摘で直したもの＝消す対象の確認（目印つきの自分のフォルダだけを使い・消す）／失敗から抜けられない行き止まり（失敗の画面に「部品を消す」）／子プロセスの環境を許可リストに（書き込みトークンや AI のキーを渡さない）／`POST`・`DELETE` に Origin の確認／サイドカーが落ちたらその場で気づく見張り／入れる・消すの直列化。(d) 実物で見つけたもの＝アプリの更新で同梱の CPython の場所が変わる（3.11.11→3.11.17 のようにパスに版が入る）と venv のリンクが切れ、`venv --upgrade` は切れたリンクが残っていると失敗する → 先に外す。**実機確認**（組み立てた同梱バックエンドを、アプリのシェルと同じ env・Finder 相当の PATH で起動＋ヘッドレス Chrome）: 置く欄の案内 → 設定を開く → 部品を入れる（96 秒）→ **読み込み直さずに**置く欄が PDF を受け付ける → PDF を置いて取り込み→公開。サイドカーを kill → その場で `can_convert_pdf` が false・失敗の画面 →「もう一度試す」で復帰。入れた部品の venv のリンクを切って再起動（アプリの更新を真似る）→ 自動で付け直して使える状態に戻る。入っているのに起動できない状態からも「部品を消す」で抜けられる。「部品を消す」→ フォルダが消え、読み込み直さずに案内が戻る。別の物が入ったフォルダを置き場所に指しても 1 バイトも変わらない（checksum 一致）。よそのオリジンの `POST` は 403。サイドカーの環境に書き込みトークンが無く `HF_HUB_OFFLINE=1` がある。**未確認**: `.app` を組み上げての起動・リリースの署名と公証・遅い回線や途中で切れたときの挙動（失敗後のやり直しは最初から取得し直す）。**残**（ADR §6）: サーバ版のサイドカーを同じ依存一覧・同じモデルのコミットに固定／使っていないあいだモデルを手放す／部品が古くなったときの案内／macOS arm64 以外／Graphium との連携／**ローカルモードの既存の書き込み経路にも同一オリジンの確認が無い**（別タスクとして切り出した）。
 - 2026-10-05: **デスクトップ版に pandoc を同梱する — デスクトップ版でも Word を取り込める（branch `feat/desktop-bundle-pandoc`・ADR `local-first-distribution.md` §7）**。利用者「マージして、Word・PDF を進めてください」（#672 のあと）。①ingest: `documents.pandoc_path()` を新設＝`ASTERISM_PANDOC_BIN` → PATH の順に探す（`find_oxigraph_binary()` と同じ形）。`pandoc_available()`・`pandoc_version()`・`convert_docx_to_jats()` は見つけたパスで動く。②desktop: `bundle-backend.sh` が公式リリースの無改変バイナリ（3.12 に固定・4 プラットフォームぶんの sha256 を検証）を `backend/pandoc` に置き、シェル（`bundled_backend`）が `ASTERISM_PANDOC_BIN` を渡す。GPL-2.0-or-later のライセンス全文とソースの入手先を `desktop/third-party/pandoc/` → `backend/licenses/pandoc/` に同梱。③CI: `desktop-build.yml` のスモークテストを PATH=`/usr/bin:/bin:/usr/sbin:/sbin` で起動し、`/api/instance` の `can_convert_docx` が true であることを確かめる（runner に pandoc があっても、同梱物を見ていることが分かる）。④画面のコードは変えていない — #672 の出し分けが「実際に変換できるか」で決まるので、デスクトップ版の画面は自動で Word を受け付け、案内は「PDF は、デスクトップ版ではまだ取り込めません。」だけになる。manual 4 章を合わせた。**実機確認**: 組み立てた同梱バックエンド（同梱の python・oxigraph・pandoc）を、シェルと同じ env・Finder 相当の PATH で起動 → `can_convert_docx: true` → 画面から Word を置いて取り込み→公開まで通る。公式バイナリは hardened runtime つきで署名済みで、付け直した署名（ad-hoc・runtime）でも変換できる。**未確認**: .app を組み上げての起動（`cargo check` と上の同梱バックエンドの起動まで）・リリースの署名と公証（次のリリースで確かめる）。大きさ＝同梱物 約 370MB → 約 530MB（pandoc 約 190MB・圧縮後 約 40MB）。**残**: PDF＝利用者が「Docling をあとから入れる」案を選んだ（設定のボタンで約 1.5GB を取得し、アプリが手元で Docling を子プロセスとして動かす。実測=実行環境 1.0GB＋モデル 0.5GB・7 ページ 1.3 秒・メモリ最大 1.7GB）。ADR を書いてから数本の PR に分けて進める。
 - 2026-10-05: **かんたんモードの「意味をつける」の戻るボタンが行き止まりだった穴を塞ぐ（branch `fix/kantan-meanings-back-dead-end`）**。再現（実機）=公開済みのデータセットで「設計を見直す」→「③ 意味をつける」の「数の確認に戻る」→ 手順バーは「5 かたちをたしかめる 現在地」、本体は中身の無い `kz-card` だけで、押せるのは見直しの帯の 2 つだけ。初回の流れ（「ためす」→「何かおかしい — ③ 意味をつける に戻る」→ 同じボタン）でも同じ。原因=戻り先が `setStep(6)`（数の確認）のまま残っていた。その画面は 2026-08-28 に畳んで描画の分岐が無い（ADR meaning-before-identity §7-4。スナップショットの復元は 6→7 に読み替えていたが、このボタンだけ取り残された）。直し=戻り先を「ためす」（`confirmMeanings()`＝隣の「この意味を保存して戻る」と同じ着地点・保存はしない）にし、文言を「ためすに戻る」／`Back to Try it` に（キーは `meanings.backToCounts`→`meanings.backToTry`・「公開する」の「ためすに戻る」と同じ言葉）。見直しでまだ下書きを作り直していないとき（`redesigning && !reingested`）も「ためす」でよいと判断: `GET /api/datasets/{id}/trial-queries` は公開済みのグラフにも答え、「ためす」の「公開へ」は公開し直すものが無ければ見直しを終えてデータセットの詳細に戻る（`goPublish`）。再発防止=`ui/src/kantan/wizardSteps.test.ts`（`setStep` の行き先がどれも描画の分岐を持つことをソースから検査。直す前は `KantanWizard.tsx:7020 → step 6` で落ちる）。マニュアル=`getting-started.md` 5. の「続いて『数の確認』の画面が出ます…『この意味で確定』ボタン」（無い画面・無いボタン）を実際の流れ（進む→下書きに取り込み→「ためす」）に直し、6. と `screens.md`「途中のやり直し」に「ためす」からの 2 つの戻り道と ③ からの帰り道を書いた。`docs/manual/` 再生成。実機で確認=公開済み（下書きなし）・取り込み済み未公開・初回の流れの 3 つで ③↔⑥ を往復、English 表示も。**残**=①旧「数の確認」の残骸: `kantan.json` の `s6.*` は 91 キー中 65 が未参照（`s6.confirm`「この意味で確定」・`s6.title`「数の確認」・`s6.bulkIncludeAll` など。照合テストは辞書にあれば通すので、マニュアルの古い記述を素通しした）／`step === 6` を見る effect が 4 か所／`getting-started.md` 3. の「まだ取り込んでいない項目」「すべて取り込む」の段落（その表はもう描画されない）。②見直しでまだ作り直していないときの「ためす」の言葉: 冒頭は「公開前の下書きに取り込めました」、主ボタンは「問題なさそう — 公開へ」のままだが、実際は公開済みのデータを読み、ボタンは見直しを終える（旧画面にあった `redesign.confirmNoChange`「確認できた — 見直しを終了」が畳んだときに外れた）。
 - 2026-10-05: **「ID の引っ越し」の知らせの穴をふさぐ（branch `fix/id-move-notice-on-detail`・ADR `id-move-after-publish.md` §5 追補）**。公開の前に「前の ID からたどれなくなります」と言う決まり（ADR §5・K10）に穴が 2 種類あった。**①出す画面**: 知らせはかんたんモードの S8 にしか無く、設計を見直して取り込んだあとウィザードを離れ、データセットの詳細の「公開を更新する」から公開すると、警告なしで前の ID がたどれなくなった（実機で再現: 見直しと同じ `POST /api/materialize` → 取り込み → `id-move` は blocked・`missing_columns: 番号` → 詳細の公開確認には何も出ない）。読み方（`useIdMove`）と描き方（`IdMoveNotice`）を 1 つにまとめ、ウィザードと詳細の公開確認が同じ部品で同じ知らせ（引っ越し先を書けた件数／引き継げないぶんのファイルと理由／戻り道）を出す。戻り道だけは画面ごとに違う（詳細=「やめる」→「設計を見直す」）。**②戻り道の文言**: S8 は「『ためすに戻る』→『データの数えかたに戻る』」と案内していたが、そのボタンは無い（実物は「⑤ かたちをたしかめる に戻る」／en は "Back to the shape check"）。ja・en を実際のボタン名に合わせ、文がボタン名を含むことをテストで固定（`ui/src/idMove.test.ts`）。**③確かめる途中で見つけた、記録の鮮度の穴**（知らせが読む `meta.id_move` が前の回のまま残る）: (a) 引っ越して公開し終えたあと、住所を動かさない差し替えでも「N 件の ID が変わります」をもう一度言う (b) 戻り道どおり ID の作り方を元に戻して取り込み直しても警告が消えない (c) 公開 → 下書き → もう一度直して下書き、の 2 回めは `meta.promoted` が False なので計画そのものを省き、転送も知らせも無いまま前の ID が消える。直し方=住所が動かない取り込みと公開のときに記録を消す／記録を書く・消すのは下書きの確定（`mark_ingested`）の直後（確定の手前で落ちた取り込みが、残っている下書きの警告を消さない）／「公開したことがあるか」は `published_subjects` の有無で決める（`_plan_id_move`・`run_pipeline`・`mark_promoted`）。3 つとも直す前のコードで落ちるテストを `api/tests/test_id_move.py` に足し、実機でも (b)(c) を確認（下書きを 4 回重ねて、動く→引き継げない→動く→元に戻す、で知らせが毎回その版の内容になる）。マニュアル `manual/ja/datasets.md`「設計を見直す」を、知らせが両方の画面に出る内容に直した。**見つけたが直していないもの**: 見直しウィザードの「③ 意味をつける」の「数の確認に戻る」が空のカードで行き止まりになる（6 は畳んだのに `setStep(6)` が残る）／知らせのファイル名が保存名（`source-xxxx.csv`）で出る／台帳を作れなかったとき（`ledger_error`）は理由の一覧が空になる／台帳を作っている最中の取り消しが握りつぶされ、取り消した取り込みが下書きとして確定する（`_write_id_move_ledger` の `except Exception` が `IngestCancelledError` も受ける）。

diff --git a/docs/architecture/local-first-distribution.md b/docs/architecture/local-first-distribution.md
@@ -226,6 +226,6 @@ pandoc も Docling も同梱せず、Finder から起動したアプリの PATH
 - **Phase 2（デスクトップシェル）**: **v1 実装済 = `desktop/`（Tauri v2）**。シェルの契約は 1 つだけ＝`asterism-local` を spawn（起動器が Oxigraph/demo-agent の孫を監督）→空きポートの HTTP readiness を待つ→そのループバック URL でネイティブウィンドウを開く。終了時は **SIGTERM**（SIGKILL は孫をみなしごにする）。起動器の解決順= `ASTERISM_LOCAL_CMD` → 実行ファイルから祖先を遡って `api/.venv/bin/asterism-local`（`tauri dev` と repo 内ビルドの .app を両カバー）→ PATH。バックエンドログは app log dir（`~/Library/Logs/com.kumagallium.asterism/backend.log`）。**v2 追補=自己完結バンドル実装済**: `scripts/bundle-backend.sh`（`beforeBuildCommand`）が `src-tauri/backend/` を組み立て（uv 管理の standalone CPython+全パッケージ非 editable install・Oxigraph 単一バイナリ・demo-agent・datasets・SPA）、Tauri resource として .app に同梱（約 370MB）。シェルは同梱 backend を最優先で解決し `python3 -m asterism_api.local` で起動（console script の shebang は再配置で壊れるため使わない）。env で全ペイロードをバンドルに向ける（`ASTERISM_UI_DIST`/`ASTERISM_OXIGRAPH_BIN`/`ASTERISM_DEMO_AGENT_DIR`/`ASTERISM_DATASETS_ROOT`。demo-agent の env override は本追補で `local.py` に追加）。**リポジトリ外・環境変数なしで全スタック起動を実機実証**（repo も Python も Docker も Homebrew も不要）。`tauri dev` はバンドルせず checkout 解決＝反復は速いまま。**v3 追補=署名/公証/updater 完了**: 自動アップデートは実装済（#338 クライアント＋#339 release workflow。フィードは §6.1 の Pages 固定 URL・日常導線は §6.2 の SPA バナー）。署名/公証は #346 で完了＝同梱バイナリ 133 個の deep-sign＋app/dmg の公証＋staple・実機で `spctl` = Notarized Developer ID を確認（Resources 内バイナリの署名カバレッジは前例どおり Graphium の node 同梱に倣った・secret 名も Graphium と同一を流用）。自動 dispatch（#342/#344）込みで次リリースから全自動。**残**= Windows（Job Object・バンドル script の asset 名）・Docling のオプショナルダウンロード。※Ask 実接続は Phase 1 追補で実装済（§3）。
 - **デスクトップ版での文書の変換（Word・PDF）**: どちらも**実装済**（2026-10-05）。Word は同梱、PDF はあとから入れる。
   - Word＝pandoc を同梱する。`bundle-backend.sh` が公式リリースの無改変バイナリ（3.12 に固定・sha256 を検証）を `backend/pandoc` に置き、シェルが `ASTERISM_PANDOC_BIN` で場所を渡す（`documents.pandoc_path()` が env → PATH の順に探す。Oxigraph と同じ形）。画面は §6.3 の判定で自動的に Word を受け付ける（画面のコードは変えていない）。pandoc は GPL-2.0-or-later なので、ライセンス全文とソースの入手先を `backend/licenses/pandoc/` に同梱する（元は `desktop/third-party/pandoc/`）。Asterism 本体とはリンクせず、子プロセスとして呼ぶだけ。大きさ＝バイナリ約 190MB（配布時の圧縮後は約 40MB）で、同梱物全体は約 370MB → 約 530MB。公式バイナリは hardened runtime つきで署名済みで、付け直した署名（ad-hoc・runtime）でも動くことは手元で確認した。**リリースの署名・公証を通ることは未確認**（証明書が要るため。次のリリースで確かめる）。
-  - PDF＝Docling は PyTorch とレイアウト解析モデルを要し（サイドカーの目安はメモリ 4〜8GiB）、同梱には向かない。利用者の意向（2026-10-05）: 最終的には、Graphium との連携も含めて Asterism 側でも PDF を扱えるようにしたい。方式は「Docling をあとから入れる」に決定（利用者の選択・2026-10-05）＝設定のボタンで実行環境とモデルを取得し、アプリが手元で Docling を子プロセスとして動かす。手元の実測（Apple Silicon・OCR なし）: 実行環境 1.0GB＋モデル 0.5GB・7 ページの PDF が 1.3 秒（モデル読み込み後）・メモリ最大 1.7GB。**実装済**（2026-10-05）＝ADR [`desktop-pdf-runtime.md`](desktop-pdf-runtime.md)。部品は同梱せず、設定の「PDF」タブから取得する（約 1.7GB）。
+  - PDF＝Docling は PyTorch とレイアウト解析モデルを要し（サイドカーの目安はメモリ 4〜8GiB）、同梱には向かない。利用者の意向（2026-10-05）: 最終的には、Graphium との連携も含めて Asterism 側でも PDF を扱えるようにしたい。方式は「Docling をあとから入れる」に決定（利用者の選択・2026-10-05）＝設定のボタンで実行環境とモデルを取得し、アプリが手元で Docling を子プロセスとして動かす。手元の実測（Apple Silicon・OCR なし）: 実行環境 1.0GB＋モデル 0.5GB・7 ページの PDF が 1.3 秒（モデル読み込み後）・メモリ最大 1.7GB。**実装済**（2026-10-05）＝ADR [`desktop-pdf-runtime.md`](desktop-pdf-runtime.md)。部品は同梱せず、設定の「このアプリ」タブにある「PDF の読み取り」から取得する（約 1.7GB）。
 - **Phase 3（exchange）**: **v1 実装済（§5）** — マニフェスト形式・export/import 経路（token-gated API）・決定論リベースまで実 2 インスタンス e2e 済。残= かんたん UI への「書き出す/受け取る」導線・既存 id との衝突時の再取り込み/新版化。
 - 残課題（本 ADR の外）: SSRF ガードの非対称（モデル一覧のみ private 拒否・ジョブ経路は素通し）の整理／env 名 `CSV2RDF_*`→`ASTERISM_*` 統一（既存の残課題）。
